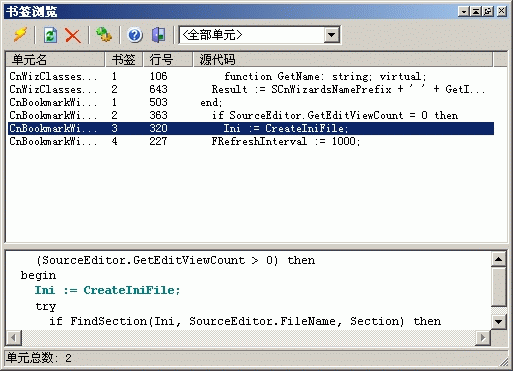
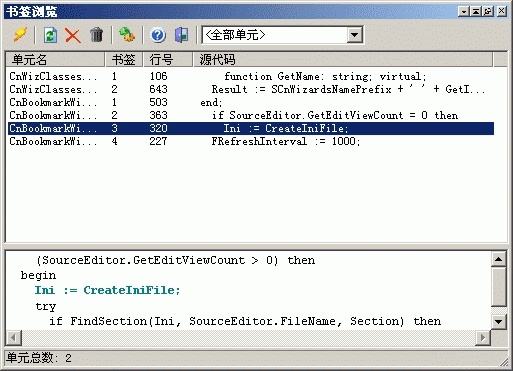
* [Bookmark] Add a Clear Button.

Changed region(s): [[0.1559, 0.0593, 0.499, 0.1186], [0.6238, 0.0593, 0.7173, 0.1186], [0.0936, 0.0889, 0.1248, 0.1186]]

diff --git a/Help/CnWizards_ENU/wizards/bookmarkwizards.htm b/Help/CnWizards_ENU/wizards/bookmarkwizards.htm
@@ -39,6 +39,9 @@ or deleted a bookmark in source editor, bookmark list can auto refresh.</p>
 <p class="text" align="left"><b>Delete</b>: Delete selected bookmarks.</p>
   </li>
   <li>
+<p class="text" align="left"><b>Clear</b>: Delete all bookmarks.</p>
+  </li>
+  <li>
 <p class="text" align="left"><b>Tools Settings</b>: Display bookmark manager settings dialog.</p>
   </li>
   <li>
